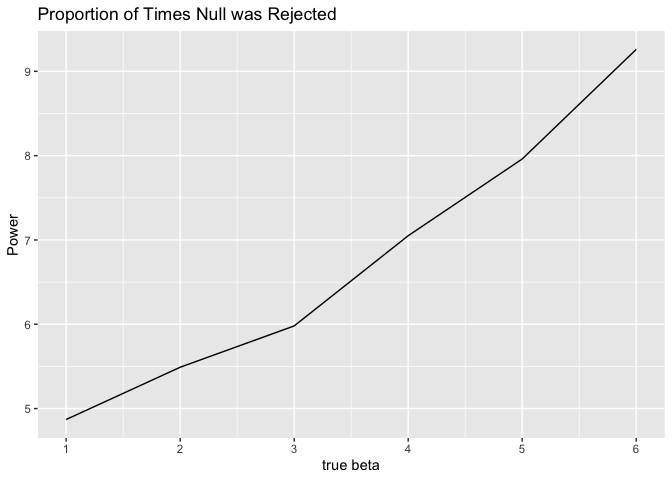
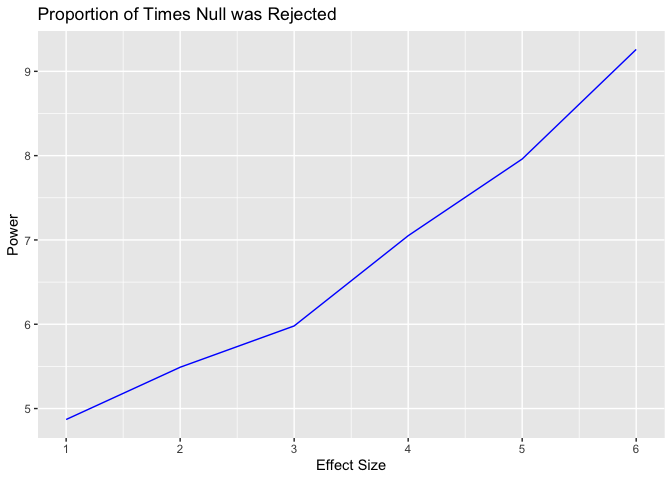
making 2 plots demonstrating average estimate of bhat and average rejected

diff --git a/p8105_hw5_ab4797.md b/p8105_hw5_ab4797.md
@@ -165,7 +165,43 @@ total_count =
 total_count = left_join(total_count, reject_count, by = "beta1") %>% 
   mutate(proportion = (total_reject / total_pval)*100) 
 
-  ggplot(total_count, aes(x = beta1, y = proportion)) + geom_line() + labs(title = "Proportion of Times Null was Rejected", x = "true beta", y = "Power") + scale_x_continuous(breaks = c(0,1,2,3,4,5,6))
+  ggplot(total_count, aes(x = beta1, y = proportion)) + geom_line(color = "blue") + labs(title = "Proportion of Times Null was Rejected", x = "Effect Size", y = "Power") + scale_x_continuous(breaks = c(0,1,2,3,4,5,6))
 ```
 
 ![](p8105_hw5_ab4797_files/figure-gfm/unnamed-chunk-9-1.png)<!-- -->
+
+This plot demonstrates the direct relationsip between power and effect
+size. As effect size increases, so does power. This makes sense
+conceptually as power is the likelihood that a study will detect an
+effect, an effect is more likely to be detected if it is larger.
+
+\_Plots showing
+
+``` r
+library(ggplot2)
+library(patchwork)
+
+p1 = sim_results %>% 
+  group_by(beta1) %>% 
+  summarize(mean_estimate = mean(estimate)) %>% 
+  ggplot(aes(x = beta1, y = mean_estimate)) + geom_point(color = "blue") + labs(x = "true beta", y = "average beta hat estimate", title = "Total Values") + geom_line(color = "blue")
+
+          
+p2 = sim_results %>% 
+   filter(reject ==1) %>% 
+  group_by(beta1) %>% 
+  summarize(mean_rejected = mean(estimate)) %>% 
+  ggplot(aes(x = beta1, y = mean_rejected)) + geom_point(color = "mediumorchid") + labs(x = "true beta", y = "rejected beta hat estimate", title = "Rejected Values") + geom_line(color = "mediumorchid")
+
+p1 + p2
+```
+
+![](p8105_hw5_ab4797_files/figure-gfm/unnamed-chunk-10-1.png)<!-- -->
+
+These two plots show the average estimate of beta hat (Left) and the
+average estimate of beta hat for the samples where null was rejected
+(Right). The sample average of beta hat in both plots is not equal to
+the true value as the left plot is showing total betas versus the right
+is showing just those that have been rejected. While both plots are
+increasing, you can see that the y axis of the rejected beta hat
+estimate is higher than that of the total average beta hat estimate.
